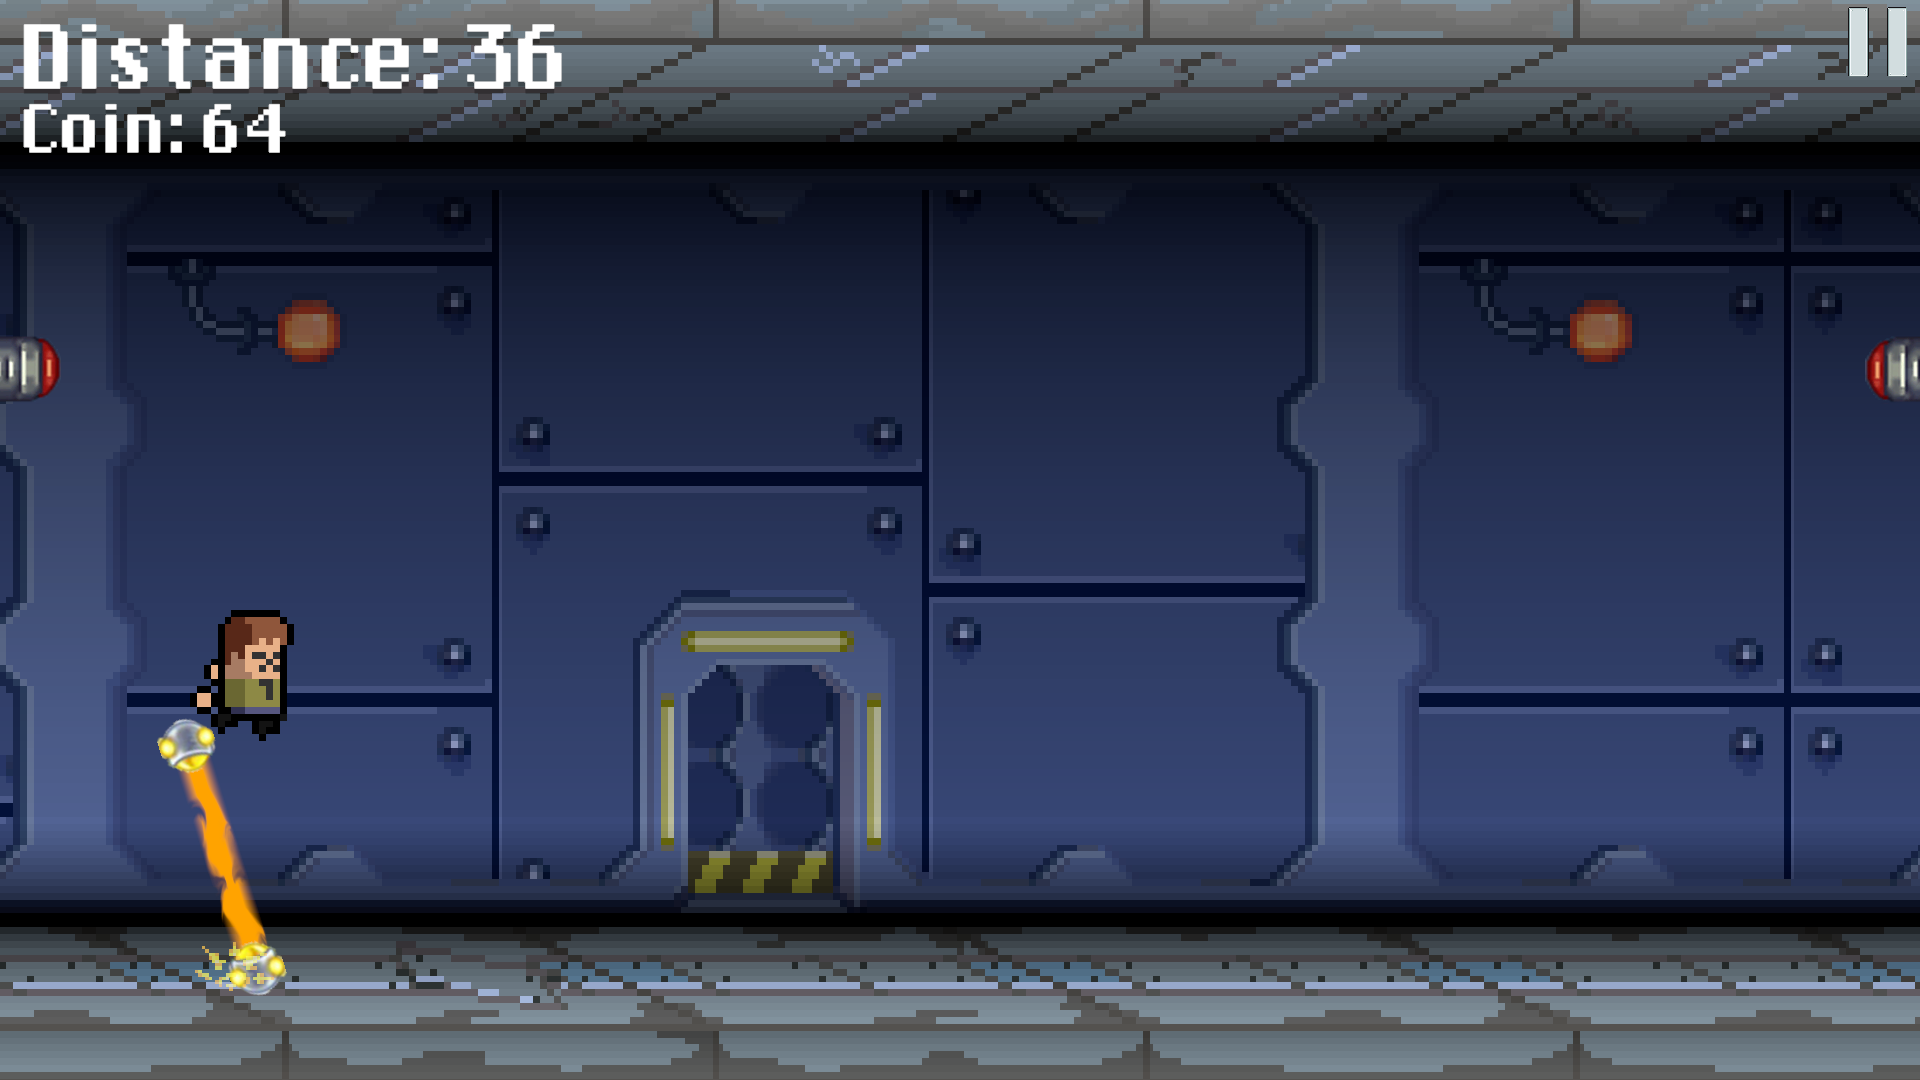
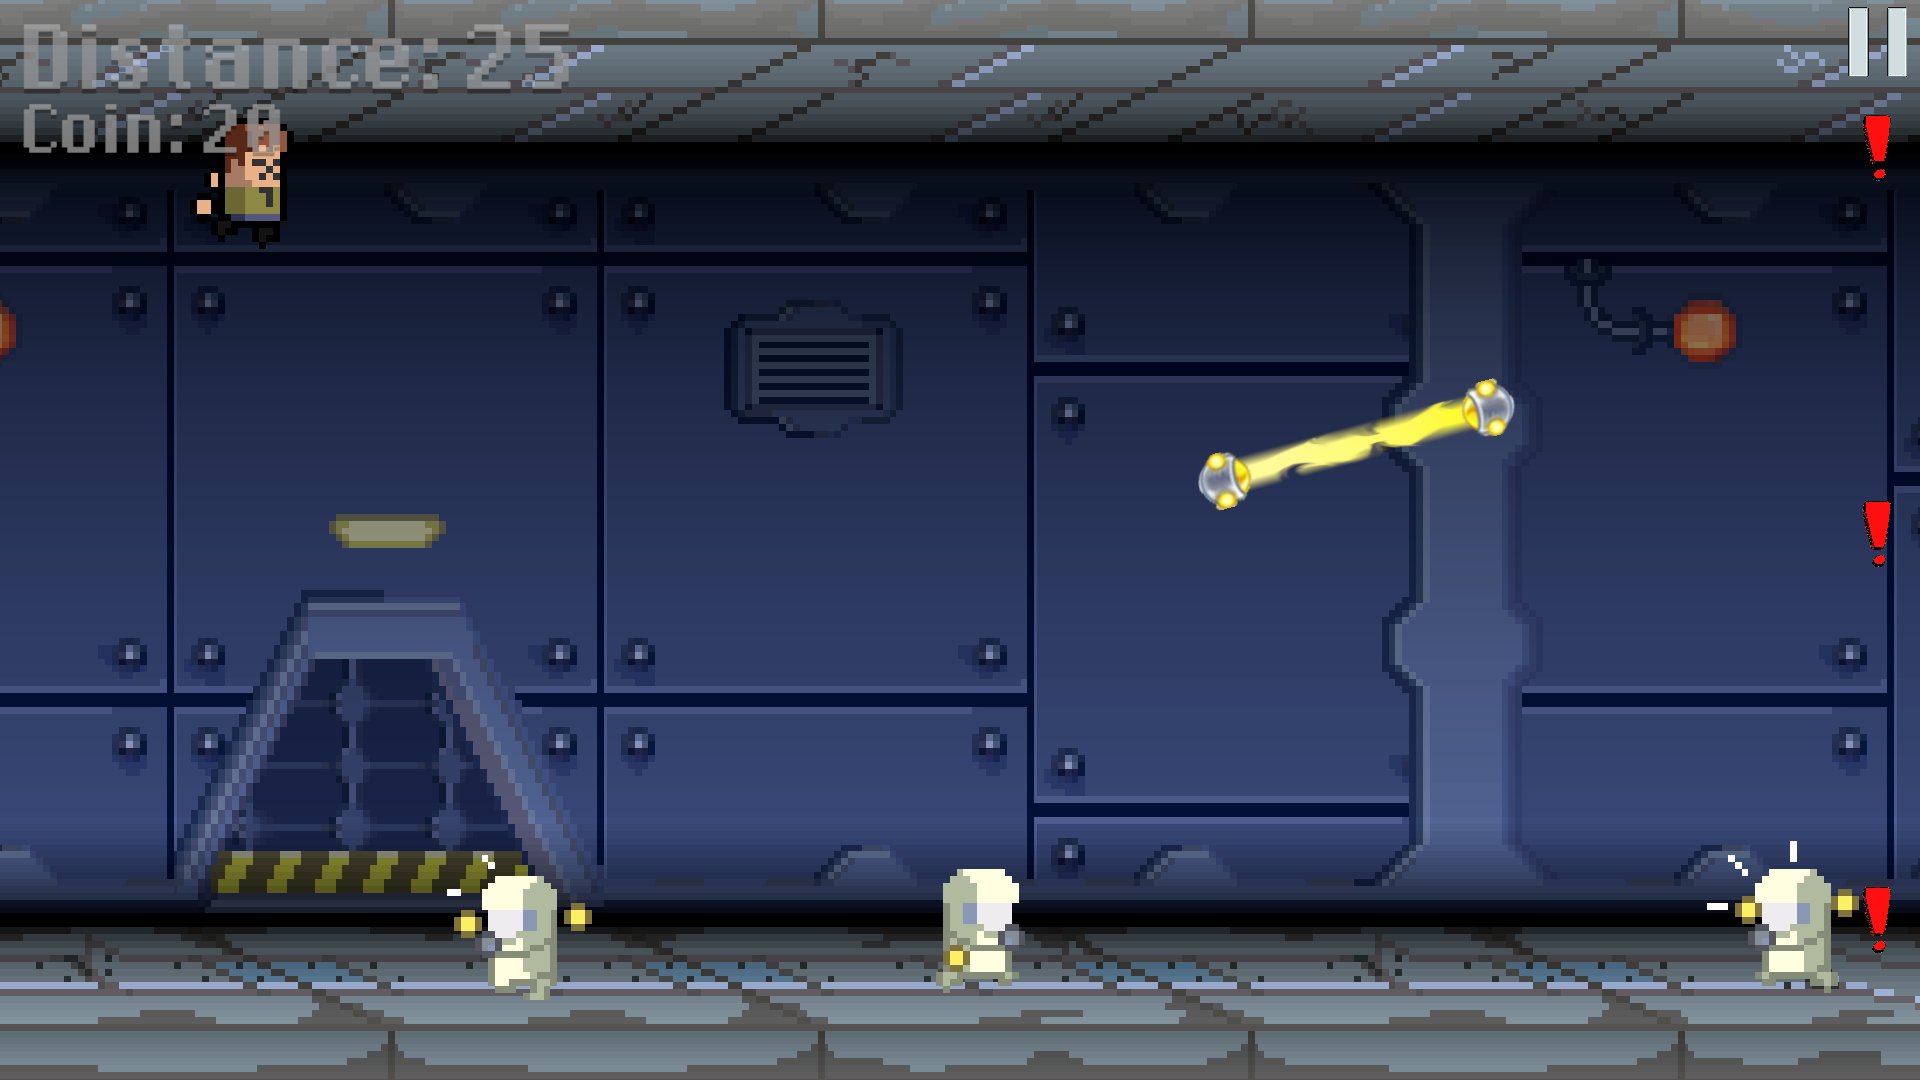
Continued work on scientists

diff --git a/NotJetpackJoyrideProject/Assets/Scripts/NPC/BulletHitNpc.cs b/NotJetpackJoyrideProject/Assets/Scripts/NPC/BulletHitNpc.cs
@@ -4,7 +4,7 @@ using UnityEngine;
 
 public class BulletHitNpc : MonoBehaviour
 {
-    [SerializeField] GameObject Scientist;
+    //[SerializeField] GameObject Scientist;
     private void OnParticleCollision(GameObject collision)
     {
         Debug.Log("Collided with: " + collision.gameObject.name);
@@ -12,8 +12,7 @@ public class BulletHitNpc : MonoBehaviour
         if (collision.gameObject.layer == LayerMask.NameToLayer("Npc"))
         {
             Debug.Log("hitbox hitted");
-            Scientist.GetComponent<scientist>().HandleDeath();
+            collision.GetComponent<scientist>().HandleDeath();
         }
-
     }
 }

diff --git a/NotJetpackJoyrideProject/Assets/Scripts/NPC/scientist.cs b/NotJetpackJoyrideProject/Assets/Scripts/NPC/scientist.cs
@@ -76,7 +76,7 @@ public class scientist : MonoBehaviour
     private void ChangeDirection()
     {
         int direction = Random.Range(0, 2) * 2 - 1;
-        speed = Mathf.Abs(speed) * 1.2f * direction;
+        speed = Mathf.Abs(speed) * 1.1f * direction;
 
         rb.velocity = new Vector2(speed, rb.velocity.y);
 
